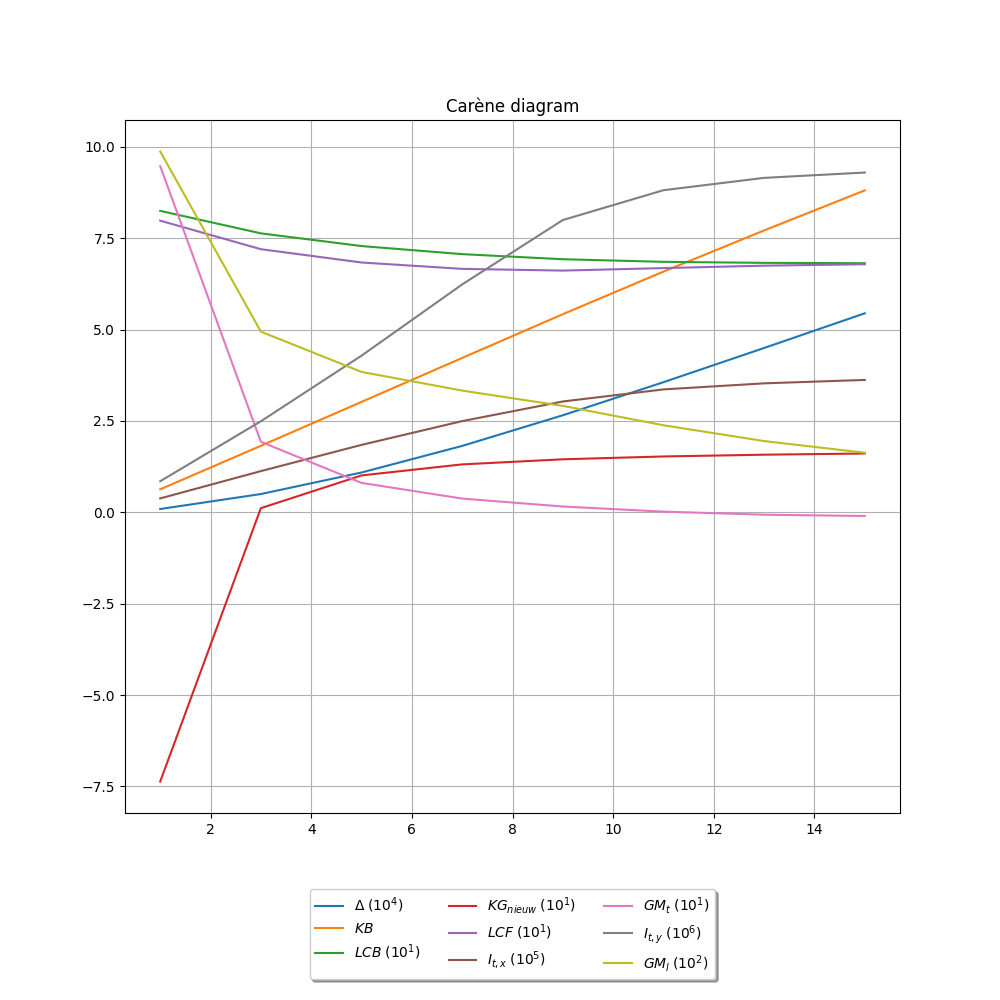
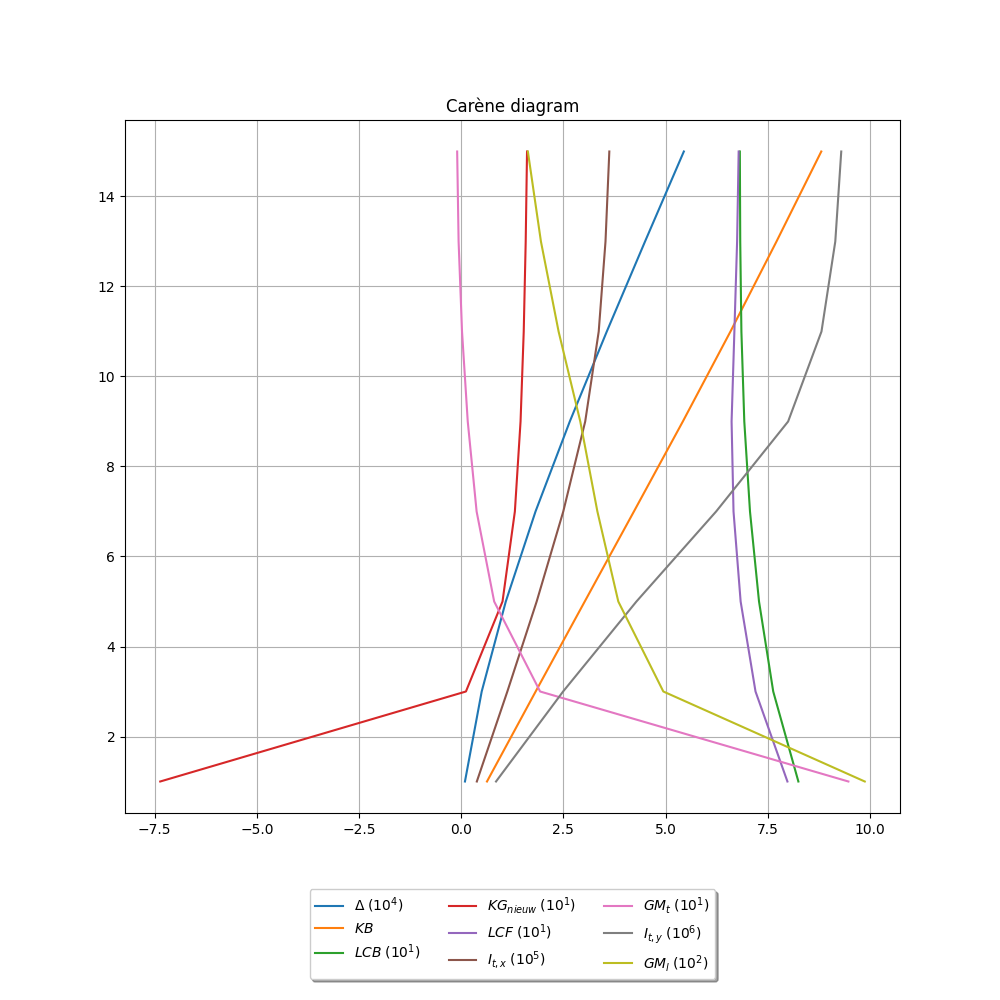
biem

diff --git a/Trendlijnen.py b/Trendlijnen.py
@@ -618,7 +618,7 @@ def careneplot(filepath):
     ax = plt.subplot(111)
 
     for i in range(len(datalabel)):
-        plt.plot(variable, data[:,i], label=datalabel[i])
+        plt.plot(data[:,i],variable, label=datalabel[i])
 #        ax.set_xlabel('[m]')
 #        ax.set_ylabel('[N/m]')
     plt.grid()
